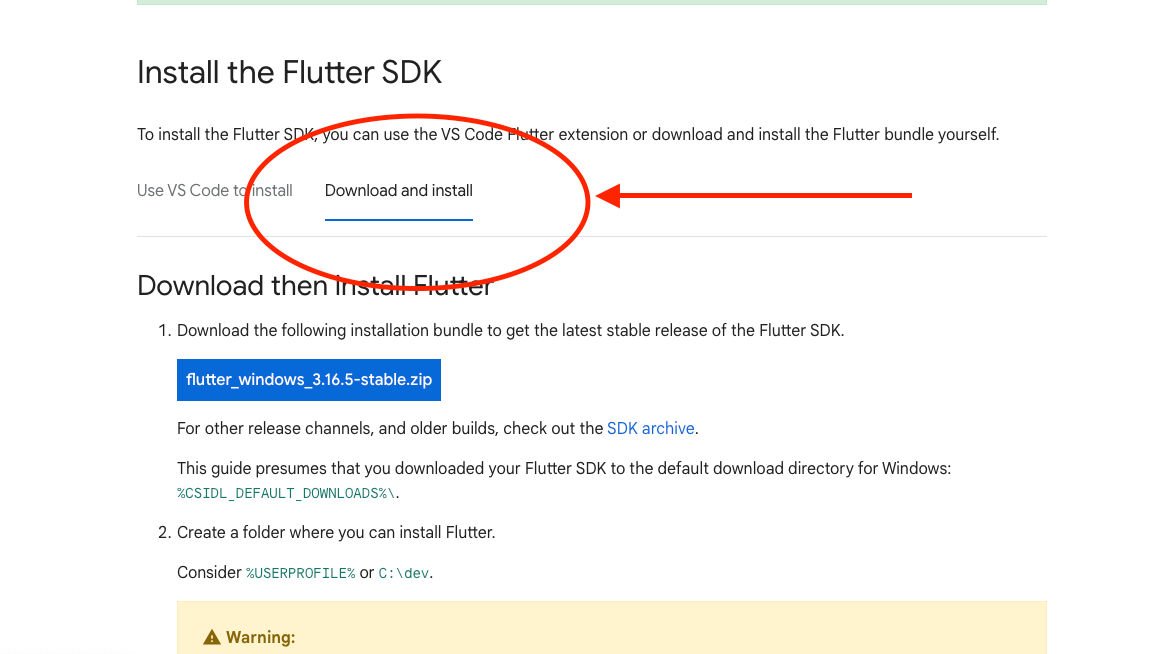
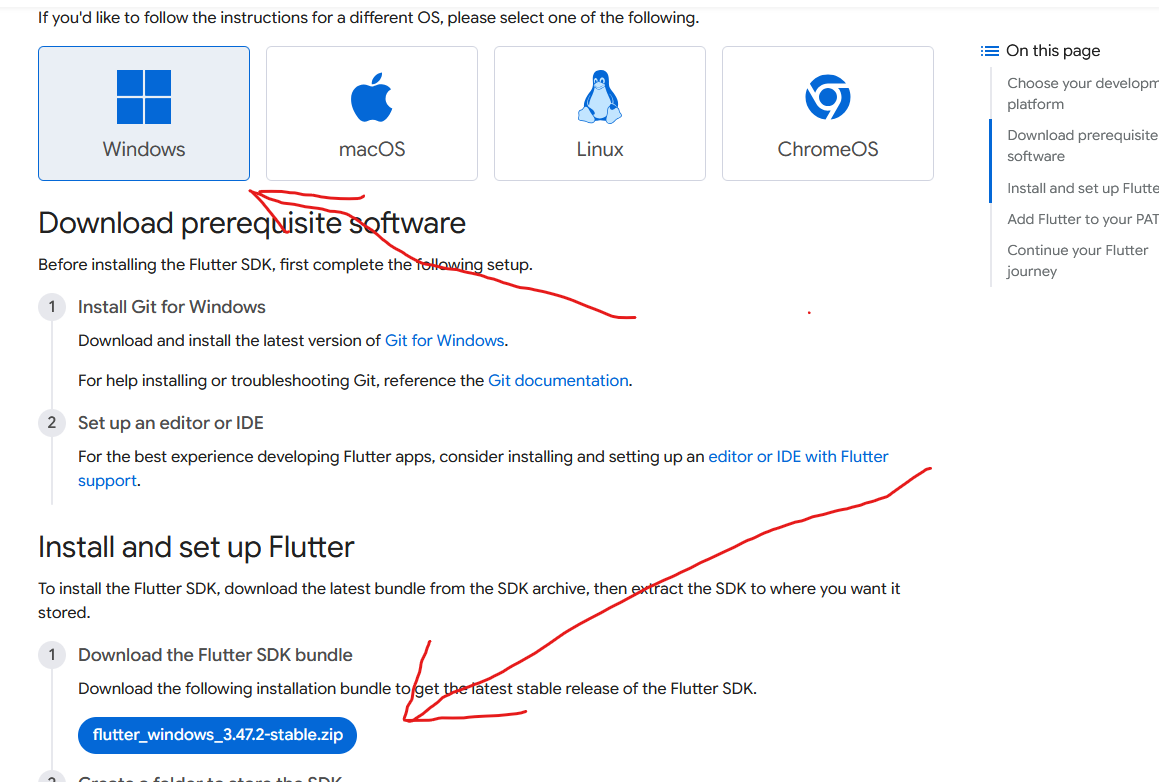
Renewing lecture for 2026

diff --git a/src/Week2_Widgets/3_LearningWidgets.html b/src/Week2_Widgets/3_LearningWidgets.html
@@ -12,13 +12,13 @@
 <p> Instead of you writing code and trying to follow along with the notes, just copy the project that the professor is using. Open
     Android Studio, and select the "File" menu, then "New" -> "Project from Version Control". Next, it will ask you to put in the
     URL of the project you want to copy. Put this address in the URL field:
-    <pre>https://github.com/etorunski/CST2335_Fall24.git</pre>
+    <pre>https://github.com/etorunski/CST2335_Fall26.git</pre>
 <p>Then click "Clone". Your Android Studio will copy all the files that are located in that repository to your computer. You should
     then open the project in a new window.
 </p>
 <h2>Image</h2>
 <p>Images can be any of the normal image formats: JPG, PNG, GIF, BMP. Let's start by downloading an image from the internet onto our computer:
-    <a href="http://www.algonquincollege.com/campusservices/files/2020/04/AC-Pembroke-ZoomBackground-01-.jpg" target="_blank">http://www.algonquincollege.com/campusservices/files/2020/04/AC-Pembroke-ZoomBackground-01-.jpg</a>
+    <a href="https://educationontario.com/app/uploads/2022/04/HiRes_20190612-IMG_04520-476-scaled.jpg" target="_blank">https://educationontario.com/app/uploads/2022/04/HiRes_20190612-IMG_04520-476-scaled.jpg</a>
 
 <br>Rename the file to <b>algonquin.jpg</b> to make things simple. Next in your Flutter project, find a directory called "assets" in the root project folder where
     the AI placed the i18n folder with the language files. Then copy your algonquin.jpg file into the assets folder.</p>
@@ -52,8 +52,10 @@ the file isn't even on the Git tracking list. A colour or Green means that the f
 <p>Go ahead and change the width and height parameters and you should see your program react immediately without recompiling. This
 is a great feature of modern programming languages called <b>"Hot swapping"</b>. It is basically changing the code of the program while it is still running.
 You don't need to recompile and restart your program.</p>
-
-
+<h2>Using AI to add Images</h2>
+<p>Write a prompt for the AI agent:
+<pre>Add this image to the page so that it's locally stored in the assets folder  (then drag the image over into the prompt window)</pre>
+</p>
 <h2>Committing changes</h2>
 <p>To save the work from today, click on the "Master" git button on the top of AndroidStudio. From the list, click on "Commit":
     <img src="images/commitButton.png">
@@ -80,6 +82,13 @@ string "Hello" with the function: <pre>translate('your_key')</pre>
   //in de.json :
     "your_key" : "Guten Tag!"</pre>
 <p> You must put the your new text key in each language file, followed by what to replace it with in that language.</p>
+<h2>Using AI</h2>
+<p>To add a Text Widget using AI, write a prompt to specify the information:
+<pre> Add a Text widget that says __________,
+    with a font size of ______ .dp
+    and a colour of _________</pre>
+</p>
+<hr>
     <h2>Button</h2><p>
 A button is just an area on the screen that you can click on. The area can have either a Text or Image widget in it. Let's have a look:
 <pre> ElevatedButton( onPressed: buttonClicked, child:  Text("Click me")  )
@@ -102,6 +111,12 @@ A button is just an area on the screen that you can click on. The area can have 
     )</pre>
 
 <p> An ElevatedButton can take any Widget as its child: parameter so that you can put Text, Images, etc. and when you click on the Button's surface, it will call the <b>onPressed</b> function.</p>
+<h2>Using AI</h2>
+<p>You can write a prompt to tell the AI:
+<pre> Add a ElevatedButton with a child of XXXXXXXX  and when the user presses it, it does YYYYYYYY</pre>
+<p>Just tell the AI what you want it to do when the user presses it. It will fill in the lambda function for you.
+</p>
+
 <p>Go ahead again and commit your work as you did above. This time, add the commit message: <b>"Added a button"</b>.</p>
 
 <hr>
@@ -133,8 +148,14 @@ This function passes in a boolean indicating whether the box is now checked or n
 
 <p>There is a problem with this update function, since the callback function declares <b>newValue</b> as nullable, we can use a not-null assertion (!).
     <pre>isChecked = newValue !;</pre>
-<p> This means that Flutter will check that newValue not null. If it is null, then the app will crash. You don't have to worry about this because if you are clicking on a checkbox, then the checkbox exists
+<p> This means that Flutter will check that newValue not null. If it is null, then the app will crash.
+
+    You don't have to worry about this because if you are clicking on a checkbox, then the checkbox exists
     and it has a true/false value. I'm not sure how it can be null in the first place.
+
+    <h2>Using AI</h2>
+<p>You can write a prompt for the AI agent to add a Checkbox / Switch :
+    <pre> Add a Switch / Textbox whose value is XXXXXXXX and when the user changes it, it does YYYYYYYYYYYYYY</pre>
 </p>
 <p>Go ahead again and commit your work as you did above. This time, add the commit message "Added a Checkbox".</p>
 <hr>

diff --git a/src/Week1_Introduction/5_Lab.html b/src/Week1_Introduction/5_Lab.html
@@ -9,23 +9,23 @@
   <p>This week, you have had a quick introduction to Flutter, and started programming in Dart. You have learned how to declare variables,
 declare a function, and how a program starts and runs.
 
-<p>For the labs in this course, you should have a second Flutter project called "my_CST2335_labs". You will do all of your work this semester in this one project.
-  You can use the in-class code as an example
-  of how the code works, but you should do all of your work in your my_CST2335_labs project. Once you create your new project, use AI to remove all the default comments that are generated.</p>
-  <p>For week 1, demonstrate your understanding of the following items (6 marks)  :
+<p>For the labs in this course, you will create your own Flutter project called "my_CST2335_labs". You will do all of your work this semester in this one project.
+  The professor will post code examples in another project, but you should do all of your work in your my_CST2335_labs project. Once you create your new project, use AI to remove all the default comments that are generated.</p>
+  <p>For week 1, demonstrate your understanding of the following items (7 marks)  :
 <ol>
 
   <li>Declare a private class called _MyStudentInfo, which extends StatelessWidget (since your name, student number, and course code will not change).
-  You will have to write the <b>build()</b> function which will render how this class looks. This function should return a Column( ),
-  whose <b>children:[ ]</b> are Text( ) widgets: [ Your name & student number, The course code, The lab assignement number.].
-  You can look at the Column( ) and Text( ) widgets that are already in the code as an example of what to do.</li>
-  <li>Declare another variable called <b>myFontSize</b> and have it initialized to 30.0. Modify your Text widgets so that you also pass in a <b>style:</b> parameter set to your variable.</li>
-  <li>Show that you can launch the program on the Android emulator, and a web browser (Edge or Chrome). For Android, you'll have to first install the Command-Line tools in the SDK</li>
-  <li>When you run your program, change what the myFontSize variable to 60 and save the file. You should see the program "hot-swap" the code to the new font size</li>
+  You will have to write the <b>build()</b> function which will render how this class is represented on screen. This function should return a Column( ),
+  whose <b>children:[ ]</b> are Text( ) widgets: <br>[ Your name & student number, The course code, The lab assignement number.].
+  You can look at the Column( ) and Text( ) widgets that are already in the code as an example of what to do. <b>(2 marks)</b></li>
+  <li>Replace the <b>home:</b> parameter of the MaterialApp( ) constructor in MyApp so that it returns a <b>const _MyStudentInfo()</b> object. <b>1 mark</b></li>
+  <li>Declare another variable called <b>myFontSize</b> and have it initialized to 30.0. Modify your Text widgets so that you also pass in a <b>style:</b> parameter set to your variable.<b>(1 mark)</b></li>
+  <li>Show that you can launch the program on the Android emulator, and a web browser (Edge or Chrome). For Android, you'll have to first install the Command-Line tools in the SDK<b>(1 mark)</b></li>
+  <li>When you run your program, change what the myFontSize variable to 60 and save the file. You should see the program "hot-swap" the code to the new font size. <b>(1 mark)</b></li>
  <li>Add DartDoc comments above all the classes and the functions describing in your own words what the functions do, and whether the class is a StatelessWidget (never changes or updates),
    or a StatefulWidget (and say which variable changes) <b>2 marks</b></li>
 </ol>
-<img src="images/finished_window.png" alt="Finished Window">
+<img src="images/lab1_image.png" width="900">
 <p>
 In order to get marks for the lab, you should show these items are completed and working to the lab professor during your normal lab period. You don't need to submit anything for now
   but you will keep working on your code in next week's lab. Also, complete Quiz 1 under the Activities -> Quizzes menu.

diff --git a/src/Week2_Widgets/3_MultilingualSupport.html b/src/Week2_Widgets/3_MultilingualSupport.html
@@ -1,0 +1,33 @@
+<!DOCTYPE html>
+<html lang="en">
+<head>
+    <link rel="stylesheet" href="../main.css">
+    <title>Multilingual support</title>
+</head>
+<body>
+
+<h1>Multilingual support</h1><p>As a programmer, there are many extra libraries you can download to add to your project. The website https://www.pub.dev
+has many extra features you can add that were created by other developers. One of them is called <b>Flutter Easy Translate</b>
+    <a href="https://pub.dev/packages/flutter_easy_translate">https://pub.dev/packages/flutter_easy_translate</a></p>
+
+<p>The website has instructions on how to install and use the libraries however the AI agents can do this for us as well. Write a prompt like this:
+
+<pre>add support for English, French, German, ...etc using the Flutter_Easy_Translate package found here: https://pub.dev/packages/flutter_easy_translate</pre></p>
+
+
+<p>You must make sure that it:
+<ol><li>Adds the flutter_easy_translate library to the pubspec.yaml file.</li>
+<li>Adds JSON files of translated strings in the <b>assets\translations</b> folder</li>
+<li>modifies main.dart to add Locales for each of your languages</li></ol></p>
+
+<p>You should run "flutter pub get" in the command line so that AndroidStudio then downloads the libraries that were added to pubspec.yaml. You might
+see that the AI adds a row of buttons to change the current language.<br>
+Have a look at the JSON language files that were added. They have Key / Value pairs for words to show on the screen. The library has a <b>translate( key )</b> function
+    which then looks in the JSON files for that word passed in, and displays the word next to that KEY. Also, Google has magically translated your text into
+    the languages you have asked for. Make sure to check the translations so that they use the words that you wanted.
+
+</p>
+
+<br><br><br><br><br><br>
+</body>
+</html>

diff --git a/src/Week1_Introduction/3_LearningDart.html b/src/Week1_Introduction/3_LearningDart.html
@@ -21,7 +21,7 @@ for those who already know it. Google has further developed the language as the 
 <hr>
 <h1 >Variable declaration</h1>
 <p>Like with Java, you first write the variable type <b>(int, long, double, boolean) </b> followed by the variable name:
-  <pre>  int age;
+  <pre>  int age = 0;
   bool done = false; // In Dart, boolean is called bool
   double pi = 3.14;
 </pre>
@@ -69,12 +69,10 @@ the position of the parameters, for instance: <b>int a</b> is the first paramete
 <p><pre>functionName( b:false, c:"a", a:44);</pre></p>
 <p>This way, parameter c gets passed <b>false</b>, parameter b gets passed <b>'a'</b>,
   and 44 is for the parameter a.</p>
-<p>Why would you want this? First of all, you can specify default values for
-the parameters of the function:</p>
-<pre>functionName( int a = 0, bool b = false, String name = "")</pre>
-<p>and then you wrap the parameter list in braces: { }  to make them optional. That means that if you don't
+<p>To do this, you wrap the parameter list in braces: { }  to make them optional and then supply default values
+  in case the parameter is left out. That means that if you don't
 specify one of the parameters, then it will take the default values.</p>
-<pre>functionName( {int a = 0, bool b = false, String name = ""})</pre>
+<pre>functionName(<b>{</b>int a = 0, bool b = false, String name = ""<b>}</b>)</pre>
 <p>Now you can call the function but only pass in parameters that you
 want to change other than the default values. If you only want to change the parameter
 <strong>name</strong>, then just pass in the new value</p>

diff --git a/src/Week1_Introduction/1_InstallFlutter.html b/src/Week1_Introduction/1_InstallFlutter.html
@@ -19,12 +19,11 @@
 <h1>Install Flutter</h1>
 <p>Once you have installed Android Studio, you must then install the Flutter SDK after:
 <ol >
-    <li>Go to <a href="https://docs.flutter.dev/get-started/install" target="_blank">https://docs.flutter.dev/get-started/install</a></li>
-    <li>Choose your operating system version, and then select "Android" for your first type of app.<img src="images/chooseMobile.png"> </li>
-    <li>Look down the page and download the zip file of the Flutter SDK to your computer.
+    <li>Go to <a href="https://docs.flutter.dev/install/manual" target="_blank">https://docs.flutter.dev/install/manual</a></li>
+    <li>Choose your operating system version, and then look down the page and download the
+        zip file of the Flutter SDK to your computer.
         <img src="images/downloadSDK.png">
-        Extract the contents and then move the "flutter" folder somewhere on
-        your computer where the path doesn't have any spaces in the name (So not "Program Files").</li>
+        Then just keep following the instructions on how to "Install and set up Flutter"</li>
     <li>Add the <strong>flutter\bin</strong> folder to your operating system's PATH variable. You can refer to your previous course in Java on how to add folders to the PATH environment variable.</li>
     <li>Then open Android Studio.  On Windows, open "File" -&gt; "Settings", and then find "plugins" in the list. On Macintosh, select "AndroidStudio" -> "Settings", and then find "plugins".
         Search for "Flutter" and install it.</li>

diff --git a/src/Week1_Introduction/2_AndroidStudio.html b/src/Week1_Introduction/2_AndroidStudio.html
@@ -11,7 +11,7 @@
   <body >
 
 
-    <h1>Android Studio</h1>
+    <h1>Tour of Android Studio</h1>
     <p>Android Studio is a programming environment for creating Android programs. It is really just a version of IntelliJ that has been modified to look different and
     has extra software for creating Android applications. Google has further extended Android Studio for creating Flutter applications through the Flutter plugin. You can not only write Android
     applications, but it also has software for launching Edge or Chrome and debugging through the browser.</p>
@@ -34,6 +34,6 @@ You can see there are folders for compiling the output of the different platform
     <H1>Summary</H1>
   <p>Android Studio is like other development environments. It has a project overview window on the left side that lists
   the files and folders that make up your project. You can open one of the files and a text editor window appears on
-  the right side to edit the file.</p>
+  the right side to edit the file.</p><br><br><br><br><br>
   </body>
 </html>

diff --git a/src/Week1_Introduction/99_Widgets.html b/src/Week1_Introduction/99_Widgets.html
@@ -1,3 +1,4 @@
+
 <!DOCTYPE html>
 <html lang="en">
 <head>
